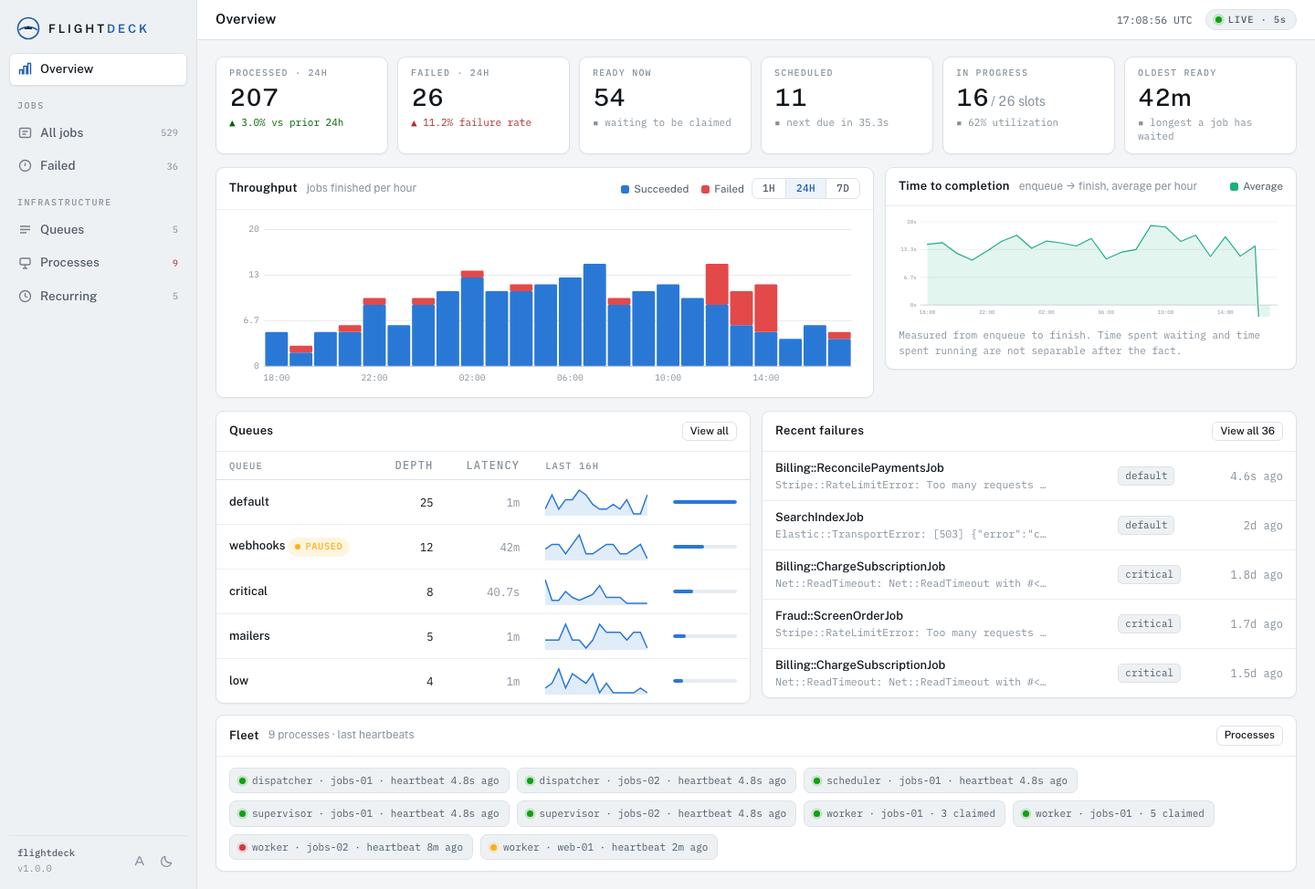
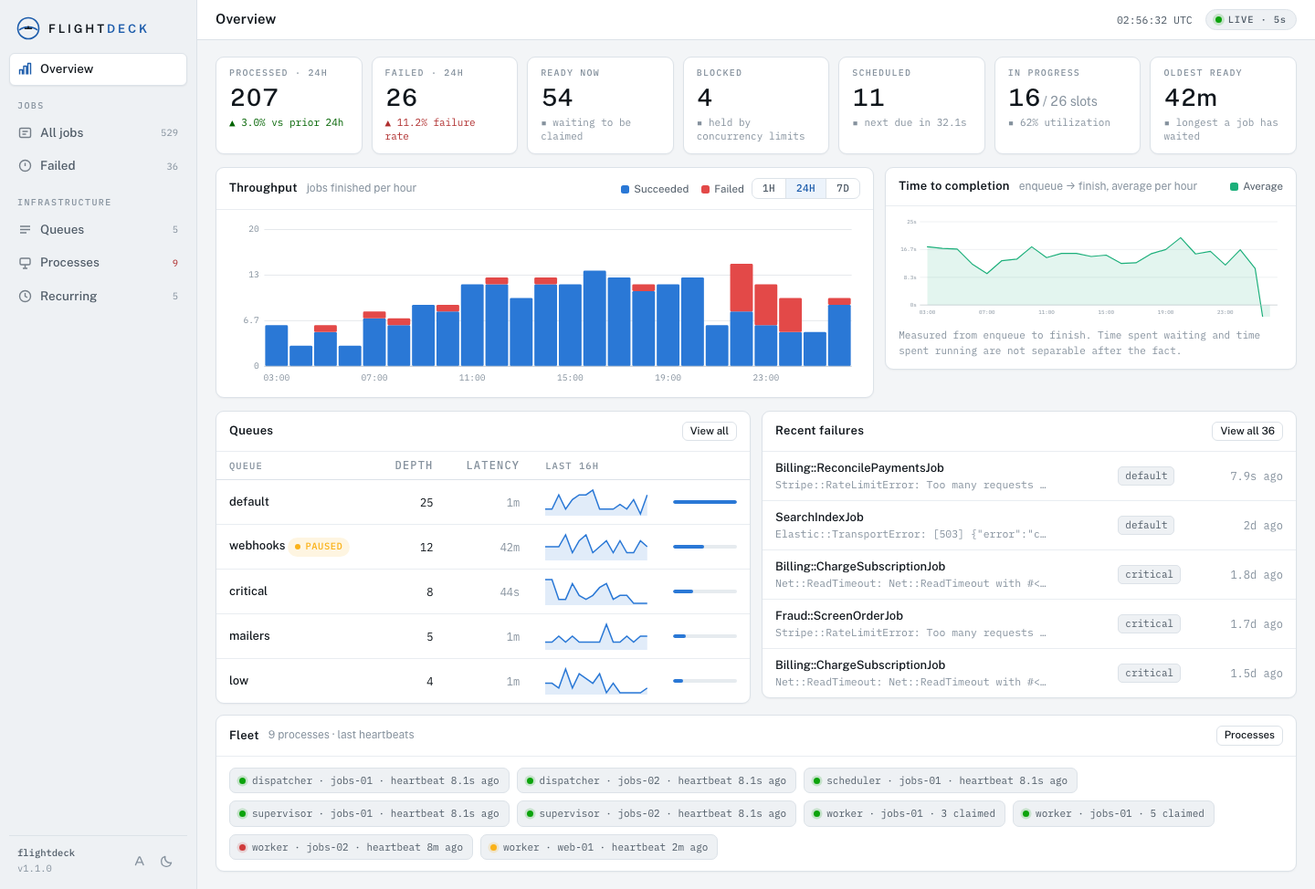
Add a Blocked tile to the Overview
Jobs held by a concurrency limit were invisible on the Overview: the
backlog read as ready + scheduled, so operators had to open the Jobs list
to find out how much work was actually left. Blocked jobs are work the
application still owes, so they belong in the tile row.

Seven tiles no longer fit the six-column grid at every width, so the row
is seven across on a wide screen and drops to four (4 + 3) below 1320px,
which is where "PROCESSED · 24H" starts wrapping.

Closes #9

diff --git a/app/assets/flightdeck/flightdeck-ad6cd9e6c4b8.css b/app/assets/flightdeck/flightdeck-ad6cd9e6c4b8.css
@@ -1,0 +1,3 @@
+@font-face{font-family:'Barlow';font-style:normal;font-weight:400;font-display:swap;src:url(flightdeck-barlow-400-7a686e763128.woff2) format('woff2')}@font-face{font-family:'Barlow';font-style:normal;font-weight:500;font-display:swap;src:url(flightdeck-barlow-500-80e7dc5605dd.woff2) format('woff2')}@font-face{font-family:'Barlow';font-style:normal;font-weight:600;font-display:swap;src:url(flightdeck-barlow-600-488b58098126.woff2) format('woff2')}@font-face{font-family:'General Sans';font-style:normal;font-weight:400;font-display:swap;src:url(flightdeck-general-sans-400-3ec2be771caf.woff2) format('woff2')}@font-face{font-family:'General Sans';font-style:normal;font-weight:500;font-display:swap;src:url(flightdeck-general-sans-500-c30377df1de8.woff2) format('woff2')}@font-face{font-family:'General Sans';font-style:normal;font-weight:600;font-display:swap;src:url(flightdeck-general-sans-600-94a2a0e1ef59.woff2) format('woff2')}@font-face{font-family:'IBM Plex Mono';font-style:normal;font-weight:400;font-display:swap;src:url(flightdeck-ibm-plex-mono-400-c36f509c0a8f.woff2) format('woff2')}@font-face{font-family:'IBM Plex Mono';font-style:normal;font-weight:500;font-display:swap;src:url(flightdeck-ibm-plex-mono-500-a76f53ca6612.woff2) format('woff2')}@font-face{font-family:'Inter';font-style:normal;font-weight:400 600;font-display:swap;src:url(flightdeck-inter-variable-c940764593d0.woff2) format('woff2')}@font-face{font-family:'Manrope';font-style:normal;font-weight:400 600;font-display:swap;src:url(flightdeck-manrope-variable-e310b55a7fd9.woff2) format('woff2')}@font-face{font-family:'Public Sans';font-style:normal;font-weight:400 600;font-display:swap;src:url(flightdeck-public-sans-variable-c1b6da516e00.woff2) format('woff2')}
+/*! tailwindcss v4.3.3 | MIT License | https://tailwindcss.com */
+@layer properties{@supports (((-webkit-hyphens:none)) and (not (margin-trim:inline))) or ((-moz-orient:inline) and (not (color:rgb(from red r g b)))){*,:before,:after,::backdrop{--tw-blur:initial;--tw-brightness:initial;--tw-contrast:initial;--tw-grayscale:initial;--tw-hue-rotate:initial;--tw-invert:initial;--tw-opacity:initial;--tw-saturate:initial;--tw-sepia:initial;--tw-drop-shadow:initial;--tw-drop-shadow-color:initial;--tw-drop-shadow-alpha:100%;--tw-drop-shadow-size:initial}}}@layer theme{:root,:host{--font-mono:var(--font-mono);--default-font-family:var(--font-ui);--default-mono-font-family:var(--font-mono)}}@layer base{*,:after,:before,::backdrop{box-sizing:border-box;border:0 solid;margin:0;padding:0}::file-selector-button{box-sizing:border-box;border:0 solid;margin:0;padding:0}html,:host{-webkit-text-size-adjust:100%;tab-size:4;line-height:1.5;font-family:var(--default-font-family,-apple-system, BlinkMacSystemFont, "Segoe UI", Roboto, "Helvetica Neue", "Noto Sans", Arial, sans-serif, "Apple Color Emoji", "Segoe UI Emoji", "Segoe UI Symbol", "Noto Color Emoji");font-feature-settings:var(--default-font-feature-settings,normal);font-variation-settings:var(--default-font-variation-settings,normal);-webkit-tap-highlight-color:transparent}hr{height:0;color:inherit;border-top-width:1px}abbr:where([title]){-webkit-text-decoration:underline dotted;text-decoration:underline dotted}h1,h2,h3,h4,h5,h6{font-size:inherit;font-weight:inherit}a{color:inherit;-webkit-text-decoration:inherit;-webkit-text-decoration:inherit;-webkit-text-decoration:inherit;text-decoration:inherit}b,strong{font-weight:bolder}code,kbd,samp,pre{font-family:var(--default-mono-font-family,ui-monospace, SFMono-Regular, Menlo, Monaco, Consolas, "Liberation Mono", "Courier New", monospace);font-feature-settings:var(--default-mono-font-feature-settings,normal);font-variation-settings:var(--default-mono-font-variation-settings,normal);font-size:1em}small{font-size:80%}sub,sup{vertical-align:baseline;font-size:75%;line-height:0;position:relative}sub{bottom:-.25em}sup{top:-.5em}table{text-indent:0;border-color:inherit;border-collapse:collapse}:-moz-focusring:where(:not(iframe)){outline:auto}progress{vertical-align:baseline}summary{display:list-item}ol,ul,menu{list-style:none}img,svg,video,canvas,audio,iframe,embed,object{vertical-align:middle;display:block}img,video{max-width:100%;height:auto}button,input,select,optgroup,textarea{font:inherit;font-feature-settings:inherit;font-variation-settings:inherit;letter-spacing:inherit;color:inherit;opacity:1;background-color:#0000;border-radius:0}::file-selector-button{font:inherit;font-feature-settings:inherit;font-variation-settings:inherit;letter-spacing:inherit;color:inherit;opacity:1;background-color:#0000;border-radius:0}:where(select:is([multiple],[size])) optgroup{font-weight:bolder}:where(select:is([multiple],[size])) optgroup option{padding-inline-start:20px}::file-selector-button{margin-inline-end:4px}::placeholder{opacity:1}@supports (not ((-webkit-appearance:-apple-pay-button))) or (contain-intrinsic-size:1px){::placeholder{color:currentColor}@supports (color:color-mix(in lab, red, red)){::placeholder{color:color-mix(in oklab, currentcolor 50%, transparent)}}}textarea{resize:vertical}::-webkit-search-decoration{-webkit-appearance:none}::-webkit-date-and-time-value{min-height:1lh;text-align:inherit}::-webkit-datetime-edit{display:inline-flex}::-webkit-datetime-edit-fields-wrapper{padding:0}::-webkit-datetime-edit{padding-block:0}::-webkit-datetime-edit-year-field{padding-block:0}::-webkit-datetime-edit-month-field{padding-block:0}::-webkit-datetime-edit-day-field{padding-block:0}::-webkit-datetime-edit-hour-field{padding-block:0}::-webkit-datetime-edit-minute-field{padding-block:0}::-webkit-datetime-edit-second-field{padding-block:0}::-webkit-datetime-edit-millisecond-field{padding-block:0}::-webkit-datetime-edit-meridiem-field{padding-block:0}::-webkit-calendar-picker-indicator{line-height:1}:-moz-ui-invalid{box-shadow:none}button,input:where([type=button],[type=reset],[type=submit]){appearance:button}::file-selector-button{appearance:button}::-webkit-inner-spin-button{height:auto}::-webkit-outer-spin-button{height:auto}[hidden]:where(:not([hidden=until-found])){display:none!important}}@layer components;@layer utilities{.table{display:table}.filter{filter:var(--tw-blur,) var(--tw-brightness,) var(--tw-contrast,) var(--tw-grayscale,) var(--tw-hue-rotate,) var(--tw-invert,) var(--tw-saturate,) var(--tw-sepia,) var(--tw-drop-shadow,)}}:root{--fd-light-bg:#f3f5f7;--fd-light-panel:#fff;--fd-light-panel-2:#eef1f4;--fd-light-panel-3:#e6ebef;--fd-light-ink:#10161c;--fd-light-ink-2:#4e5a66;--fd-light-ink-3:#85919d;--fd-light-line:#dce2e8;--fd-light-line-2:#e9edf1;--fd-light-accent:#2a78d6;--fd-light-accent-ink:#1c5cab;--fd-light-accent-wash:#2a78d617;--fd-light-good:#0ca30c;--fd-light-good-text:#006300;--fd-light-warn:#fab219;--fd-light-serious:#ec835a;--fd-light-crit:#d03b3b;--fd-light-crit-text:#b02f2f;--fd-light-s1:#2a78d6;--fd-light-s2:#e34948;--fd-light-s3:#1baf7a;--fd-light-grid:#e4e7ea;--fd-light-axis:#c2c9d0;--fd-light-shadow:0 1px 2px #10161c0d, 0 4px 16px #10161c0d;--fd-light-led-halo:#0ca30c2e;--fd-light-icon-sun:none;--fd-light-icon-moon:block;--fd-dark-bg:#0c0f13;--fd-dark-panel:#14191f;--fd-dark-panel-2:#1a2027;--fd-dark-panel-3:#212932;--fd-dark-ink:#eef2f5;--fd-dark-ink-2:#a3aeb9;--fd-dark-ink-3:#67737f;--fd-dark-line:#232b34;--fd-dark-line-2:#1d242c;--fd-dark-accent:#3987e5;--fd-dark-accent-ink:#6da7ec;--fd-dark-accent-wash:#3987e521;--fd-dark-good:#0ca30c;--fd-dark-good-text:#2fbf2f;--fd-dark-warn:#fab219;--fd-dark-serious:#ec835a;--fd-dark-crit:#d03b3b;--fd-dark-crit-text:#e66767;--fd-dark-s1:#3987e5;--fd-dark-s2:#e66767;--fd-dark-s3:#199e70;--fd-dark-grid:#222a33;--fd-dark-axis:#38424c;--fd-dark-shadow:0 1px 2px #0000004d, 0 6px 20px #00000040;--fd-dark-led-halo:#0ca30c38;--fd-dark-icon-sun:block;--fd-dark-icon-moon:none;--font-system:system-ui, -apple-system, "Segoe UI", sans-serif;--font-ui:"Public Sans", var(--font-system);--font-mono:"IBM Plex Mono", ui-monospace, SFMono-Regular, Menlo, monospace;color-scheme:light;--bg:var(--fd-light-bg);--panel:var(--fd-light-panel);--panel-2:var(--fd-light-panel-2);--panel-3:var(--fd-light-panel-3);--ink:var(--fd-light-ink);--ink-2:var(--fd-light-ink-2);--ink-3:var(--fd-light-ink-3);--line:var(--fd-light-line);--line-2:var(--fd-light-line-2);--accent:var(--fd-light-accent);--accent-ink:var(--fd-light-accent-ink);--accent-wash:var(--fd-light-accent-wash);--good:var(--fd-light-good);--good-text:var(--fd-light-good-text);--warn:var(--fd-light-warn);--serious:var(--fd-light-serious);--crit:var(--fd-light-crit);--crit-text:var(--fd-light-crit-text);--s1:var(--fd-light-s1);--s2:var(--fd-light-s2);--s3:var(--fd-light-s3);--grid:var(--fd-light-grid);--axis:var(--fd-light-axis);--shadow:var(--fd-light-shadow);--led-halo:var(--fd-light-led-halo);--icon-sun:var(--fd-light-icon-sun);--icon-moon:var(--fd-light-icon-moon)}@media (prefers-color-scheme:dark){:root:where(:not([data-theme=light])){color-scheme:dark;--bg:var(--fd-dark-bg);--panel:var(--fd-dark-panel);--panel-2:var(--fd-dark-panel-2);--panel-3:var(--fd-dark-panel-3);--ink:var(--fd-dark-ink);--ink-2:var(--fd-dark-ink-2);--ink-3:var(--fd-dark-ink-3);--line:var(--fd-dark-line);--line-2:var(--fd-dark-line-2);--accent:var(--fd-dark-accent);--accent-ink:var(--fd-dark-accent-ink);--accent-wash:var(--fd-dark-accent-wash);--good:var(--fd-dark-good);--good-text:var(--fd-dark-good-text);--warn:var(--fd-dark-warn);--serious:var(--fd-dark-serious);--crit:var(--fd-dark-crit);--crit-text:var(--fd-dark-crit-text);--s1:var(--fd-dark-s1);--s2:var(--fd-dark-s2);--s3:var(--fd-dark-s3);--grid:var(--fd-dark-grid);--axis:var(--fd-dark-axis);--shadow:var(--fd-dark-shadow);--led-halo:var(--fd-dark-led-halo);--icon-sun:var(--fd-dark-icon-sun);--icon-moon:var(--fd-dark-icon-moon)}}:root[data-theme=dark]{color-scheme:dark;--bg:var(--fd-dark-bg);--panel:var(--fd-dark-panel);--panel-2:var(--fd-dark-panel-2);--panel-3:var(--fd-dark-panel-3);--ink:var(--fd-dark-ink);--ink-2:var(--fd-dark-ink-2);--ink-3:var(--fd-dark-ink-3);--line:var(--fd-dark-line);--line-2:var(--fd-dark-line-2);--accent:var(--fd-dark-accent);--accent-ink:var(--fd-dark-accent-ink);--accent-wash:var(--fd-dark-accent-wash);--good:var(--fd-dark-good);--good-text:var(--fd-dark-good-text);--warn:var(--fd-dark-warn);--serious:var(--fd-dark-serious);--crit:var(--fd-dark-crit);--crit-text:var(--fd-dark-crit-text);--s1:var(--fd-dark-s1);--s2:var(--fd-dark-s2);--s3:var(--fd-dark-s3);--grid:var(--fd-dark-grid);--axis:var(--fd-dark-axis);--shadow:var(--fd-dark-shadow);--led-halo:var(--fd-dark-led-halo);--icon-sun:var(--fd-dark-icon-sun);--icon-moon:var(--fd-dark-icon-moon)}:root[data-theme=light]{color-scheme:light;--bg:var(--fd-light-bg);--panel:var(--fd-light-panel);--panel-2:var(--fd-light-panel-2);--panel-3:var(--fd-light-panel-3);--ink:var(--fd-light-ink);--ink-2:var(--fd-light-ink-2);--ink-3:var(--fd-light-ink-3);--line:var(--fd-light-line);--line-2:var(--fd-light-line-2);--accent:var(--fd-light-accent);--accent-ink:var(--fd-light-accent-ink);--accent-wash:var(--fd-light-accent-wash);--good:var(--fd-light-good);--good-text:var(--fd-light-good-text);--warn:var(--fd-light-warn);--serious:var(--fd-light-serious);--crit:var(--fd-light-crit);--crit-text:var(--fd-light-crit-text);--s1:var(--fd-light-s1);--s2:var(--fd-light-s2);--s3:var(--fd-light-s3);--grid:var(--fd-light-grid);--axis:var(--fd-light-axis);--shadow:var(--fd-light-shadow);--led-halo:var(--fd-light-led-halo);--icon-sun:var(--fd-light-icon-sun);--icon-moon:var(--fd-light-icon-moon)}:root[data-font=barlow]{--font-ui:"Barlow", var(--font-system)}:root[data-font=general-sans]{--font-ui:"General Sans", var(--font-system)}:root[data-font=inter]{--font-ui:"Inter", var(--font-system)}:root[data-font=manrope]{--font-ui:"Manrope", var(--font-system)}:root[data-font=public-sans]{--font-ui:"Public Sans", var(--font-system)}:root[data-font=system]{--font-ui:var(--font-system)}html,body{margin:0}body{background:var(--bg);color:var(--ink);font:400 14px/1.45 var(--font-ui);-webkit-font-smoothing:antialiased}.mono,.fd-mono{font-family:var(--font-mono);font-variant-numeric:tabular-nums}.fd-app{grid-template-columns:216px 1fr;min-height:100vh;display:grid}.fd-side{background:var(--panel-2);border-right:1px solid var(--line);flex-direction:column;padding:14px 10px;display:flex}.fd-brand{align-items:center;gap:9px;padding:4px 8px 14px;display:flex}.fd-brand svg{flex:none}.fd-brand-word{font:600 13px/1 var(--font-ui);letter-spacing:.22em;color:var(--ink)}.fd-brand-word em{color:var(--accent-ink);font-style:normal}.fd-nav{flex-direction:column;gap:1px;display:flex}.fd-nav-link{color:var(--ink-2);border:1px solid #0000;border-radius:6px;align-items:center;gap:9px;padding:7px 9px;font-size:13.5px;font-weight:500;text-decoration:none;display:flex}.fd-nav-link svg{opacity:.75;flex:none}.fd-nav-link:hover{background:var(--panel-3);color:var(--ink)}.fd-nav-link.on{background:var(--panel);color:var(--ink);border-color:var(--line);box-shadow:0 1px 2px #10161c0f}.fd-nav-link.on svg{opacity:1;color:var(--accent-ink)}.fd-nav-count{font:400 10.5px/1 var(--font-mono);color:var(--ink-3);font-variant-numeric:tabular-nums;margin-left:auto}.fd-nav-section{font:500 10px/1 var(--font-mono);letter-spacing:.14em;color:var(--ink-3);text-transform:uppercase;padding:16px 9px 6px}.fd-side-foot{border-top:1px solid var(--line);color:var(--ink-3);font:400 10.5px/1.7 var(--font-mono);justify-content:space-between;align-items:center;gap:8px;margin-top:auto;padding:10px 9px 8px;display:flex}.fd-side-tools{align-items:center;gap:2px;display:flex}.fd-side-tools .fd-font-picker,.fd-side-tools .fd-theme-toggle{color:var(--ink-3);background:0 0;border-color:#0000}.fd-side-tools .fd-font-picker:hover,.fd-side-tools .fd-theme-toggle:hover{border-color:var(--line);background:var(--panel-2);color:var(--ink)}.fd-side-foot b{color:var(--ink-2);font-weight:500}.fd-main{background:var(--bg);flex-direction:column;min-width:0;display:flex}.fd-topbar{background:var(--panel);border-bottom:1px solid var(--line);align-items:center;gap:14px;padding:10px 20px;display:flex}.fd-topbar h2{letter-spacing:.01em;margin:0;font-size:15px;font-weight:600}.fd-topbar-right{align-items:center;gap:14px;margin-left:auto;display:flex}.fd-clock{font:400 11.5px/1 var(--font-mono);color:var(--ink-2);font-variant-numeric:tabular-nums}.fd-live{border:1px solid var(--line);background:var(--panel-2);cursor:pointer;font:500 10.5px/1 var(--font-mono);letter-spacing:.08em;color:var(--ink-2);border-radius:999px;align-items:center;gap:7px;padding:5px 10px;display:inline-flex}.fd-live .fd-dot{background:var(--good);width:7px;height:7px;box-shadow:0 0 0 3px var(--led-halo);border-radius:50%;animation:2s infinite fd-pulse}.fd-live.off .fd-dot{background:var(--ink-3);box-shadow:none;animation:none}@keyframes fd-pulse{50%{box-shadow:0 0 0 5px var(--led-halo)}}@media (prefers-reduced-motion:reduce){.fd-live .fd-dot{animation:none}}.fd-theme-toggle{border:1px solid var(--line);background:var(--panel-2);width:27px;height:27px;color:var(--ink-2);cursor:pointer;border-radius:999px;justify-content:center;align-items:center;padding:0;display:inline-flex}.fd-theme-toggle:hover{color:var(--ink);border-color:var(--axis)}.fd-font-picker{border:1px solid var(--line);background:var(--panel-2);width:27px;height:27px;color:var(--ink-2);cursor:pointer;border-radius:999px;justify-content:center;align-items:center;display:inline-flex;position:relative}.fd-font-picker:hover{color:var(--ink);border-color:var(--axis)}.fd-font-picker:focus-within{outline:2px solid var(--accent);outline-offset:1px}.fd-font-picker svg{flex:none}.fd-font-picker select{appearance:none;color:#0000;width:100%;height:100%;font:500 12px/1 var(--font-ui);cursor:pointer;background:0 0;border:0;border-radius:999px;padding:0;position:absolute;inset:0}.fd-font-picker option{background:var(--panel);color:var(--ink)}.fd-visually-hidden{clip-path:inset(50%);white-space:nowrap;width:1px;height:1px;margin:-1px;padding:0;position:absolute;overflow:hidden}.fd-theme-toggle .fd-icon-sun{display:var(--icon-sun)}.fd-theme-toggle .fd-icon-moon{display:var(--icon-moon)}.fd-content{padding:18px 20px 28px}.fd-card{background:var(--panel);border:1px solid var(--line);border-radius:9px;box-shadow:0 1px 2px #10161c0a}.fd-card-hd{border-bottom:1px solid var(--line-2);align-items:center;gap:10px;padding:11px 14px;display:flex}.fd-card-hd h3{letter-spacing:.02em;margin:0;font-size:13px;font-weight:600}.fd-card-bd{color:var(--ink-2);padding:14px}.fd-card-bd p{margin:0 0 8px}.fd-card-bd p:last-child{margin-bottom:0}.fd-toasts{z-index:60;pointer-events:none;flex-direction:column;gap:8px;display:flex;position:fixed;bottom:16px;right:16px}.fd-toasts>*{pointer-events:auto}@media (max-width:860px){.fd-app{grid-template-columns:1fr}.fd-side{border-right:0;border-bottom:1px solid var(--line)}}.fd-card-hd .sub{color:var(--ink-3);font-size:12px}.fd-card-hd .right{align-items:center;gap:8px;margin-left:auto;display:flex}.fd-btn{border:1px solid var(--line);background:var(--panel);color:var(--ink);font:500 12.5px/1 var(--font-ui);cursor:pointer;border-radius:6px;align-items:center;gap:6px;padding:6px 11px;text-decoration:none;display:inline-flex}.fd-btn:hover{background:var(--panel-2)}.fd-btn.primary{background:var(--accent);border-color:var(--accent);color:#fff}.fd-btn.primary:hover{filter:brightness(1.07)}.fd-btn.danger{color:var(--crit-text);border-color:currentColor}.fd-btn.danger:hover{background:#d03b3b12}.fd-btn.sm{padding:4px 8px;font-size:11.5px}.fd-btn[disabled],.fd-btn.disabled{opacity:.45;pointer-events:none}.fd-btn:focus-visible,.fd-nav-link:focus-visible,.fd-theme-toggle:focus-visible,.fd-statetabs a:focus-visible{outline:2px solid var(--accent);outline-offset:1px}.fd-inline-form{margin:0;display:inline-flex}.fd-pill{font:500 10.5px/1.5 var(--font-mono);letter-spacing:.05em;white-space:nowrap;border-radius:999px;align-items:center;gap:5px;padding:2.5px 8px;display:inline-flex}.fd-pill:before{content:"";background:currentColor;border-radius:50%;width:6px;height:6px}.fd-pill.ready{color:var(--accent-ink);background:var(--accent-wash)}.fd-pill.scheduled{color:var(--ink-2);background:var(--panel-3)}.fd-pill.progress{color:var(--accent-ink);background:var(--accent-wash)}.fd-pill.progress:before{border-radius:1px;animation:1.4s linear infinite fd-spin}@keyframes fd-spin{to{transform:rotate(360deg)}}@media (prefers-reduced-motion:reduce){.fd-pill.progress:before{animation:none}}.fd-pill.blocked{color:var(--serious);background:#ec835a1f}.fd-pill.finished{color:var(--good-text);background:#0ca30c1a}.fd-pill.failed{color:var(--crit-text);background:#d03b3b1a}.fd-pill.paused{color:var(--warn);background:#fab21921}.fd-qbadge{border:1px solid var(--line);background:var(--panel-2);font:400 11px/1.5 var(--font-mono);color:var(--ink-2);border-radius:5px;padding:1.5px 7px;display:inline-block}table.fd-data{border-collapse:collapse;width:100%;font-size:13px}table.fd-data th{text-align:left;font:500 10.5px/1 var(--font-mono);letter-spacing:.1em;text-transform:uppercase;color:var(--ink-3);border-bottom:1px solid var(--line);white-space:nowrap;padding:9px 14px}table.fd-data td{border-bottom:1px solid var(--line-2);vertical-align:middle;padding:9px 14px}table.fd-data tbody tr:hover{background:var(--panel-2)}table.fd-data tbody tr:last-child td{border-bottom:0}table.fd-data .num{text-align:right;font-family:var(--font-mono);font-variant-numeric:tabular-nums;font-size:12px}table.fd-data .cls{color:var(--ink);font-weight:500}table.fd-data .cls a{color:inherit;text-decoration:none}table.fd-data .cls a:hover{color:var(--accent-ink)}table.fd-data .args{font:400 11.5px/1.4 var(--font-mono);color:var(--ink-3);text-overflow:ellipsis;white-space:nowrap;max-width:300px;overflow:hidden}table.fd-data .dim{color:var(--ink-3);font-size:12px}.fd-scroll-x{overflow-x:auto}.fd-empty{text-align:center;color:var(--ink-3);padding:28px 14px;font-size:13px}.fd-pager{border-top:1px solid var(--line-2);color:var(--ink-3);font:400 11.5px/1 var(--font-mono);align-items:center;gap:10px;padding:10px 14px;display:flex}.fd-pager .right{gap:6px;margin-left:auto;display:flex}.fd-statetabs{border-bottom:1px solid var(--line);gap:2px;margin-bottom:14px;display:flex;overflow-x:auto}.fd-statetabs a{color:var(--ink-2);white-space:nowrap;border-bottom:2px solid #0000;align-items:center;gap:7px;margin-bottom:-1px;padding:8px 13px 9px;font-size:13px;font-weight:500;text-decoration:none;display:inline-flex}.fd-statetabs a .ct{font:400 10.5px/1.6 var(--font-mono);color:var(--ink-3);background:var(--panel-3);font-variant-numeric:tabular-nums;border-radius:999px;padding:0 6px}.fd-statetabs a:hover{color:var(--ink)}.fd-statetabs a.on{color:var(--accent-ink);border-bottom-color:var(--accent)}.fd-statetabs a.on .ct{background:var(--accent-wash);color:var(--accent-ink)}.fd-filterbar{flex-wrap:wrap;align-items:center;gap:8px;margin-bottom:12px;display:flex}.fd-filterbar input[type=search]{flex:1;min-width:200px}.fd-filterbar .spacer{flex:1}input[type=search],input[type=text],select{background:var(--panel);border:1px solid var(--line);color:var(--ink);font:400 13px var(--font-ui);border-radius:6px;min-width:0;padding:6px 10px}input:focus-visible,select:focus-visible{outline:2px solid var(--accent);outline-offset:0}.fd-font-picker select:focus-visible{outline:none}input[type=checkbox]{accent-color:var(--accent);width:14px;height:14px}.fd-chip{border:1px solid var(--accent-ink);background:var(--accent-wash);color:var(--accent-ink);font:500 11.5px/1 var(--font-mono);border-radius:999px;align-items:center;gap:6px;padding:4.5px 10px;text-decoration:none;display:inline-flex}.fd-chip u{opacity:.65;font-weight:400;text-decoration:none}.fd-chip:hover u{opacity:1}.fd-bulkbar[hidden]{display:none}.fd-bulkbar{background:var(--accent-wash);border:1px solid var(--accent-ink);color:var(--accent-ink);border-radius:8px;flex-wrap:wrap;align-items:center;gap:10px;margin-bottom:12px;padding:9px 14px;font-size:13px;display:flex}.fd-bulkbar .spacer{flex:1}.fd-bulkbar-all{color:var(--ink-3)}.fd-group-row td{background:var(--panel-2);font:500 11px/1.6 var(--font-mono);color:var(--ink-2);letter-spacing:.03em;padding:6px 14px}.fd-group-row a,.fd-group-row button.fd-linkish{color:var(--accent-ink);cursor:pointer;font:inherit;background:0 0;border:0;padding:0;text-decoration:none}.fd-jd-head{flex-wrap:wrap;align-items:flex-start;gap:12px;margin-bottom:14px;display:flex}.fd-jd-head .t h2{letter-spacing:-.01em;margin:0 0 4px;font-size:19px;font-weight:600}.fd-jd-head .t .sub{color:var(--ink-3);font:400 11.5px/1.5 var(--font-mono)}.fd-jd-head .actions{gap:8px;margin-left:auto;display:flex}.fd-grid-jd{grid-template-columns:1fr 320px;align-items:start;gap:12px;display:grid}.fd-stack{flex-direction:column;gap:12px;min-width:0;display:flex}.fd-meta-grid{grid-template-columns:1fr 1fr;display:grid}.fd-meta-grid>div{border-bottom:1px solid var(--line-2);min-width:0;padding:10px 14px}.fd-meta-grid>div:nth-child(odd){border-right:1px solid var(--line-2)}.fd-meta-grid>div:nth-last-child(-n+2){border-bottom:0}.fd-meta-grid .k{font:500 10px/1 var(--font-mono);letter-spacing:.1em;text-transform:uppercase;color:var(--ink-3);margin-bottom:5px}.fd-meta-grid .v{font-variant-numeric:tabular-nums;overflow-wrap:anywhere;font-size:13px}.fd-meta-grid .v.mono{font-size:12px;font-family:var(--font-mono)}pre.fd-code{font:400 12px/1.6 var(--font-mono);color:var(--ink-2);background:var(--panel-2);border-radius:0 0 9px 9px;margin:0;padding:12px 14px;overflow-x:auto}.fd-error-box .msg{font:400 12.5px/1.6 var(--font-mono);color:var(--crit-text);border-bottom:1px solid var(--line-2);overflow-wrap:anywhere;padding:12px 14px}.fd-error-box .msg b{font-weight:500}details.fd-bt summary{cursor:pointer;font:500 11px/1 var(--font-mono);letter-spacing:.08em;color:var(--ink-2);text-transform:uppercase;padding:9px 14px;list-style:none}details.fd-bt summary::-webkit-details-marker{display:none}details.fd-bt summary:before{content:"▸";color:var(--ink-3)}details.fd-bt[open] summary:before{content:"▾"}details.fd-bt pre.fd-code{border-radius:0 0 9px 9px;max-height:260px;overflow:auto}details.fd-bt pre.fd-code .app-line{color:var(--ink);background:var(--accent-wash);width:100%;display:inline-block}.fd-timeline{padding:6px 14px 14px}.fd-tl-item{grid-template-columns:14px 1fr;gap:10px;padding:7px 0;display:grid;position:relative}.fd-tl-item:before{content:"";background:var(--line);width:1px;position:absolute;top:24px;bottom:-8px;left:6px}.fd-tl-item:last-child:before{display:none}.fd-tl-dot{border:3px solid var(--panel);background:var(--axis);width:13px;height:13px;box-shadow:0 0 0 1px var(--line);border-radius:50%;margin-top:3px}.fd-tl-item.ok .fd-tl-dot{background:var(--good)}.fd-tl-item.bad .fd-tl-dot{background:var(--crit)}.fd-tl-item.now .fd-tl-dot{background:var(--accent)}.fd-tl-body .t{font-size:13px;font-weight:500}.fd-tl-body .d{color:var(--ink-3);font:400 11px/1.6 var(--font-mono);overflow-wrap:anywhere}.fd-toast{background:var(--panel);border:1px solid var(--line);box-shadow:var(--shadow);color:var(--ink);border-radius:8px;align-items:center;gap:10px;max-width:460px;padding:10px 13px;font-size:13px;animation:.18s ease-out fd-toast-in;display:flex}.fd-toast.error{border-color:var(--crit);color:var(--crit-text)}.fd-toast .fd-toast-close{color:var(--ink-3);cursor:pointer;font:400 15px/1 var(--font-mono);background:0 0;border:0;margin-left:auto;padding:0 2px}.fd-toast .fd-toast-close:hover{color:var(--ink)}@keyframes fd-toast-in{0%{opacity:0;transform:translateY(6px)}}@media (prefers-reduced-motion:reduce){.fd-toast{animation:none}}@media (max-width:1080px){.fd-grid-jd{grid-template-columns:1fr}}.fd-queue-cards{grid-template-columns:repeat(3,1fr);gap:12px;display:grid}.fd-qcard{padding:14px}.fd-qcard .top{align-items:center;gap:8px;margin-bottom:10px;display:flex}.fd-qcard h3{font:500 15px var(--font-ui);overflow-wrap:anywhere;margin:0}.fd-qcard .top .right{margin-left:auto}.fd-qcard .stats{grid-template-columns:1fr 1fr 1fr;gap:8px;margin-bottom:10px;display:grid}.fd-qcard .stats .k{font:500 9.5px/1 var(--font-mono);letter-spacing:.1em;text-transform:uppercase;color:var(--ink-3);margin-bottom:4px}.fd-qcard .stats .v{font:500 17px/1.2 var(--font-ui);font-variant-numeric:tabular-nums}.fd-qcard .stats .v small{color:var(--ink-3);font-size:11px;font-weight:400}.fd-qcard.paused-card{opacity:.92;border-style:dashed}.fd-spark-placeholder{height:30px}.fd-alert{border:1px solid var(--crit);background:#d03b3b0f;border-radius:8px;align-items:flex-start;gap:10px;margin-bottom:12px;padding:11px 14px;font-size:13px;display:flex}.fd-alert .ic{color:var(--crit);flex:none;margin-top:1px}.fd-alert b{font-weight:600}.fd-alert .right{flex:none;gap:8px;margin-left:auto;display:flex}.fd-hb{font:400 11.5px/1 var(--font-mono);color:var(--ink-2);font-variant-numeric:tabular-nums;align-items:center;gap:7px;display:inline-flex}.fd-led{border-radius:50%;flex:none;width:7px;height:7px}.fd-led.fresh{background:var(--good);box-shadow:0 0 0 2.5px var(--led-halo)}.fd-led.stale{background:var(--warn);box-shadow:0 0 0 2.5px #fab2192e}.fd-led.dead{background:var(--crit);box-shadow:0 0 0 2.5px #d03b3b29}table.fd-data tr.fd-row-danger td{background:#d03b3b0d}table.fd-data td.fd-indent{padding-left:28px}.fd-cron{font:400 11.5px/1.5 var(--font-mono);color:var(--ink-2)}.fd-cron small{color:var(--ink-3);font-size:10.5px;display:block}@media (max-width:1080px){.fd-queue-cards{grid-template-columns:1fr}}.fd-tiles{grid-template-columns:repeat(7,1fr);gap:10px;margin-bottom:14px;display:grid}.fd-tile{min-width:0;padding:12px 14px;position:relative}.fd-tile .lbl{font:500 10px/1 var(--font-mono);letter-spacing:.12em;text-transform:uppercase;color:var(--ink-3);align-items:center;gap:6px;display:flex}.fd-tile .val{font:500 26px/1.2 var(--font-ui);font-variant-numeric:tabular-nums;letter-spacing:-.01em;overflow-wrap:anywhere;margin-top:6px}.fd-tile .val small{color:var(--ink-3);margin-left:2px;font-size:14px;font-weight:400}.fd-tile .delta{font:400 11px/1.35 var(--font-mono);align-items:baseline;gap:4px;margin-top:5px;display:inline-flex}.fd-tile .delta.up{color:var(--good-text)}.fd-tile .delta.down{color:var(--crit-text)}.fd-tile .delta.flat{color:var(--ink-3)}.fd-grid-2{grid-template-columns:1.6fr 1fr;gap:12px;margin-bottom:14px;display:grid}.fd-grid-2b{grid-template-columns:1fr 1fr;gap:12px;display:grid}.fd-block{margin-top:12px;display:block}.fd-chart-body{padding:10px 14px 12px}.fd-chart{width:100%;height:auto;display:block}.fd-chart-grid{stroke:var(--grid);stroke-width:1px}.fd-chart-axis{stroke:var(--axis);stroke-width:1px}.fd-chart-label{fill:var(--ink-3);font-family:var(--font-mono);font-size:10px}.fd-chart-bar-succeeded{fill:var(--s1)}.fd-chart-bar-failed{fill:var(--s2)}.fd-chart-line{fill:none;stroke:var(--s3);stroke-width:2px;stroke-linejoin:round;stroke-linecap:round}.fd-chart-area{fill:var(--s3);opacity:.12;stroke:none}.fd-chart-dot{fill:var(--s3);stroke:var(--panel);stroke-width:2px}.fd-chart-note{color:var(--ink-3);font:400 11px/1.5 var(--font-mono);padding:0 14px 12px}.fd-legend{color:var(--ink-2);gap:14px;font-size:11.5px;display:flex}.fd-legend i{vertical-align:-1px;border-radius:2.5px;width:9px;height:9px;margin-right:5px;display:inline-block}.fd-swatch-s1{background:var(--s1)}.fd-swatch-s2{background:var(--s2)}.fd-swatch-s3{background:var(--s3)}.fd-seg{border:1px solid var(--line);background:var(--panel);border-radius:7px;display:inline-flex;overflow:hidden}.fd-seg a{font:500 11px/1 var(--font-mono);color:var(--ink-2);letter-spacing:.04em;background:0 0;border:0;padding:5px 11px;text-decoration:none}.fd-seg a+a{border-left:1px solid var(--line)}.fd-seg a.on{background:var(--accent-wash);color:var(--accent-ink)}.fd-seg a:hover{color:var(--ink)}.fd-sparkline{width:100%;height:30px;display:block}.fd-spark-line{fill:none;stroke:var(--s1);stroke-width:1.5px}.fd-spark-area{fill:var(--s1);opacity:.14;stroke:none}.fd-depth-bar{background:var(--panel-3);border-radius:2px;min-width:70px;height:4px;overflow:hidden}.fd-depth-bar i{background:var(--accent);border-radius:2px;height:100%;display:block}.fd-health-strip{flex-wrap:wrap;gap:8px;padding:12px 14px;display:flex}.fd-proc-chip{border:1px solid var(--line);background:var(--panel-2);font:400 11px/1.5 var(--font-mono);color:var(--ink-2);border-radius:7px;align-items:center;gap:7px;padding:5px 10px;display:inline-flex}@media (max-width:1320px){.fd-tiles{grid-template-columns:repeat(4,1fr)}}@media (max-width:1080px){.fd-grid-2,.fd-grid-2b{grid-template-columns:1fr}}@media (max-width:640px){.fd-tiles{grid-template-columns:repeat(2,1fr)}}.fd-live .fd-dot{flex:none}.fd-live[aria-pressed=false] .fd-dot,.fd-live.off .fd-dot{background:var(--ink-3);box-shadow:none;animation:none}.fd-nav-count.alert{color:var(--crit-text)}.fd-filterbar-actions{flex:none;gap:8px;display:flex}@property --tw-blur{syntax:"*";inherits:false}@property --tw-brightness{syntax:"*";inherits:false}@property --tw-contrast{syntax:"*";inherits:false}@property --tw-grayscale{syntax:"*";inherits:false}@property --tw-hue-rotate{syntax:"*";inherits:false}@property --tw-invert{syntax:"*";inherits:false}@property --tw-opacity{syntax:"*";inherits:false}@property --tw-saturate{syntax:"*";inherits:false}@property --tw-sepia{syntax:"*";inherits:false}@property --tw-drop-shadow{syntax:"*";inherits:false}@property --tw-drop-shadow-color{syntax:"*";inherits:false}@property --tw-drop-shadow-alpha{syntax:"<percentage>";inherits:false;initial-value:100%}@property --tw-drop-shadow-size{syntax:"*";inherits:false}

diff --git a/assets-src/input.css b/assets-src/input.css
@@ -932,7 +932,7 @@ table.fd-data td.fd-indent { padding-left: 28px; }
    Overview: tiles
    -------------------------------------------------------------------------- */
 
-.fd-tiles { display: grid; grid-template-columns: repeat(6, 1fr); gap: 10px; margin-bottom: 14px; }
+.fd-tiles { display: grid; grid-template-columns: repeat(7, 1fr); gap: 10px; margin-bottom: 14px; }
 .fd-tile { padding: 12px 14px; position: relative; min-width: 0; }
 .fd-tile .lbl {
   font: 500 10px/1 var(--font-mono); letter-spacing: .12em; text-transform: uppercase;
@@ -1008,8 +1008,10 @@ table.fd-data td.fd-indent { padding-left: 28px; }
   border-radius: 7px; background: var(--panel-2); font: 400 11px/1.5 var(--font-mono); color: var(--ink-2);
 }
 
+@media (max-width: 1320px) {
+  .fd-tiles { grid-template-columns: repeat(4, 1fr); }
+}
 @media (max-width: 1080px) {
-  .fd-tiles { grid-template-columns: repeat(3, 1fr); }
   .fd-grid-2, .fd-grid-2b { grid-template-columns: 1fr; }
 }
 @media (max-width: 640px) {

diff --git a/app/models/flightdeck/overview.rb b/app/models/flightdeck/overview.rb
@@ -22,7 +22,8 @@ module Flightdeck
     end
 
     def tiles
-      [ processed_tile, failed_tile, ready_tile, scheduled_tile, in_progress_tile, oldest_ready_tile ]
+      [ processed_tile, failed_tile, ready_tile, blocked_tile, scheduled_tile, in_progress_tile,
+        oldest_ready_tile ]
     end
 
     def series(window: Metrics::Series::DEFAULT_WINDOW)
@@ -75,6 +76,7 @@ module Flightdeck
     end
 
     def ready_now = @ready_now ||= counted("ready") { SolidQueue::ReadyExecution.all }
+    def blocked = @blocked ||= counted("blocked") { SolidQueue::BlockedExecution.all }
     def scheduled = @scheduled ||= counted("scheduled") { SolidQueue::ScheduledExecution.all }
     def in_progress = @in_progress ||= counted("in_progress") { SolidQueue::ClaimedExecution.all }
 
@@ -166,6 +168,16 @@ module Flightdeck
 
       def ready_tile
         Tile.new(label: "Ready now", value: number(ready_now), detail: "waiting to be claimed", trend: :flat, good: true)
+      end
+
+      def blocked_tile
+        Tile.new(
+          label: "Blocked",
+          value: number(blocked),
+          detail: blocked.zero? ? "nothing blocked" : "held by concurrency limits",
+          trend: :flat,
+          good: true
+        )
       end
 
       def scheduled_tile

diff --git a/test/integration/overview_test.rb b/test/integration/overview_test.rb
@@ -15,7 +15,7 @@ class Flightdeck::OverviewTest < FlightdeckIntegrationTest
     get_fd "/flightdeck"
 
     assert_response :success
-    assert_select ".fd-tile", count: 6
+    assert_select ".fd-tile", count: 7
     assert_select "svg.fd-chart", count: 2
     assert_select "#fd-overview-queues .fd-empty"
     assert_select "#fd-overview-failures .fd-empty"
@@ -37,6 +37,7 @@ class Flightdeck::OverviewTest < FlightdeckIntegrationTest
     3.times { create_failed_job }
     4.times { create_ready_job(created_at: 90.seconds.ago) }
     2.times { create_scheduled_job(scheduled_at: 10.minutes.from_now) }
+    5.times { create_blocked_job }
     worker = create_worker(threads: 10)
     create_claimed_job(process: worker)
 
@@ -46,6 +47,7 @@ class Flightdeck::OverviewTest < FlightdeckIntegrationTest
     assert_select ".fd-tile", text: /Processed · 24h\s*12/
     assert_select ".fd-tile", text: /Failed · 24h\s*3/
     assert_select ".fd-tile", text: /Ready now\s*4/
+    assert_select ".fd-tile", text: /Blocked\s*5/
     assert_select ".fd-tile", text: /Scheduled\s*2/
     assert_select ".fd-tile", text: %r{In progress\s*1\s*/ 10 slots}
     assert_includes response.body, "10% utilization"

diff --git a/test/integration/nested_mount_test.rb b/test/integration/nested_mount_test.rb
@@ -33,7 +33,7 @@ class Flightdeck::NestedMountTest < FlightdeckIntegrationTest
     get_fd MOUNT
 
     assert_response :success
-    assert_select ".fd-tile", count: 6
+    assert_select ".fd-tile", count: 7
     assert_no_bare_mount_urls response.body, "the overview"
   end
 
@@ -180,7 +180,7 @@ class Flightdeck::NestedMountTest < FlightdeckIntegrationTest
     get_fd RENAMED_MOUNT
 
     assert_response :success
-    assert_select ".fd-tile", count: 6
+    assert_select ".fd-tile", count: 7
     assert_includes response.body, %(<meta name="turbo-root" content="#{RENAMED_MOUNT}/">)
   end
 

diff --git a/test/system/dashboard_test.rb b/test/system/dashboard_test.rb
@@ -88,7 +88,7 @@ class Flightdeck::DashboardSystemTest < ApplicationSystemTestCase
     create_finished_job(queue_name: "critical", finished_at: 10.minutes.ago)
 
     visit "/flightdeck"
-    assert_selector ".fd-tile", count: 6
+    assert_selector ".fd-tile", count: 7
 
     within("#fd-overview-queues") { click_link "View all" }
     assert_current_path "/flightdeck/queues"

diff --git a/CHANGELOG.md b/CHANGELOG.md
@@ -6,6 +6,11 @@ adheres to [Semantic Versioning](https://semver.org/spec/v2.0.0.html).
 
 ## [Unreleased]
 
+### Added
+
+- A "Blocked" tile on the Overview, so jobs held by a concurrency limit are part
+  of the backlog you can see at a glance.
+
 ## [1.1.0] - 2026-08-12
 
 ### Added
